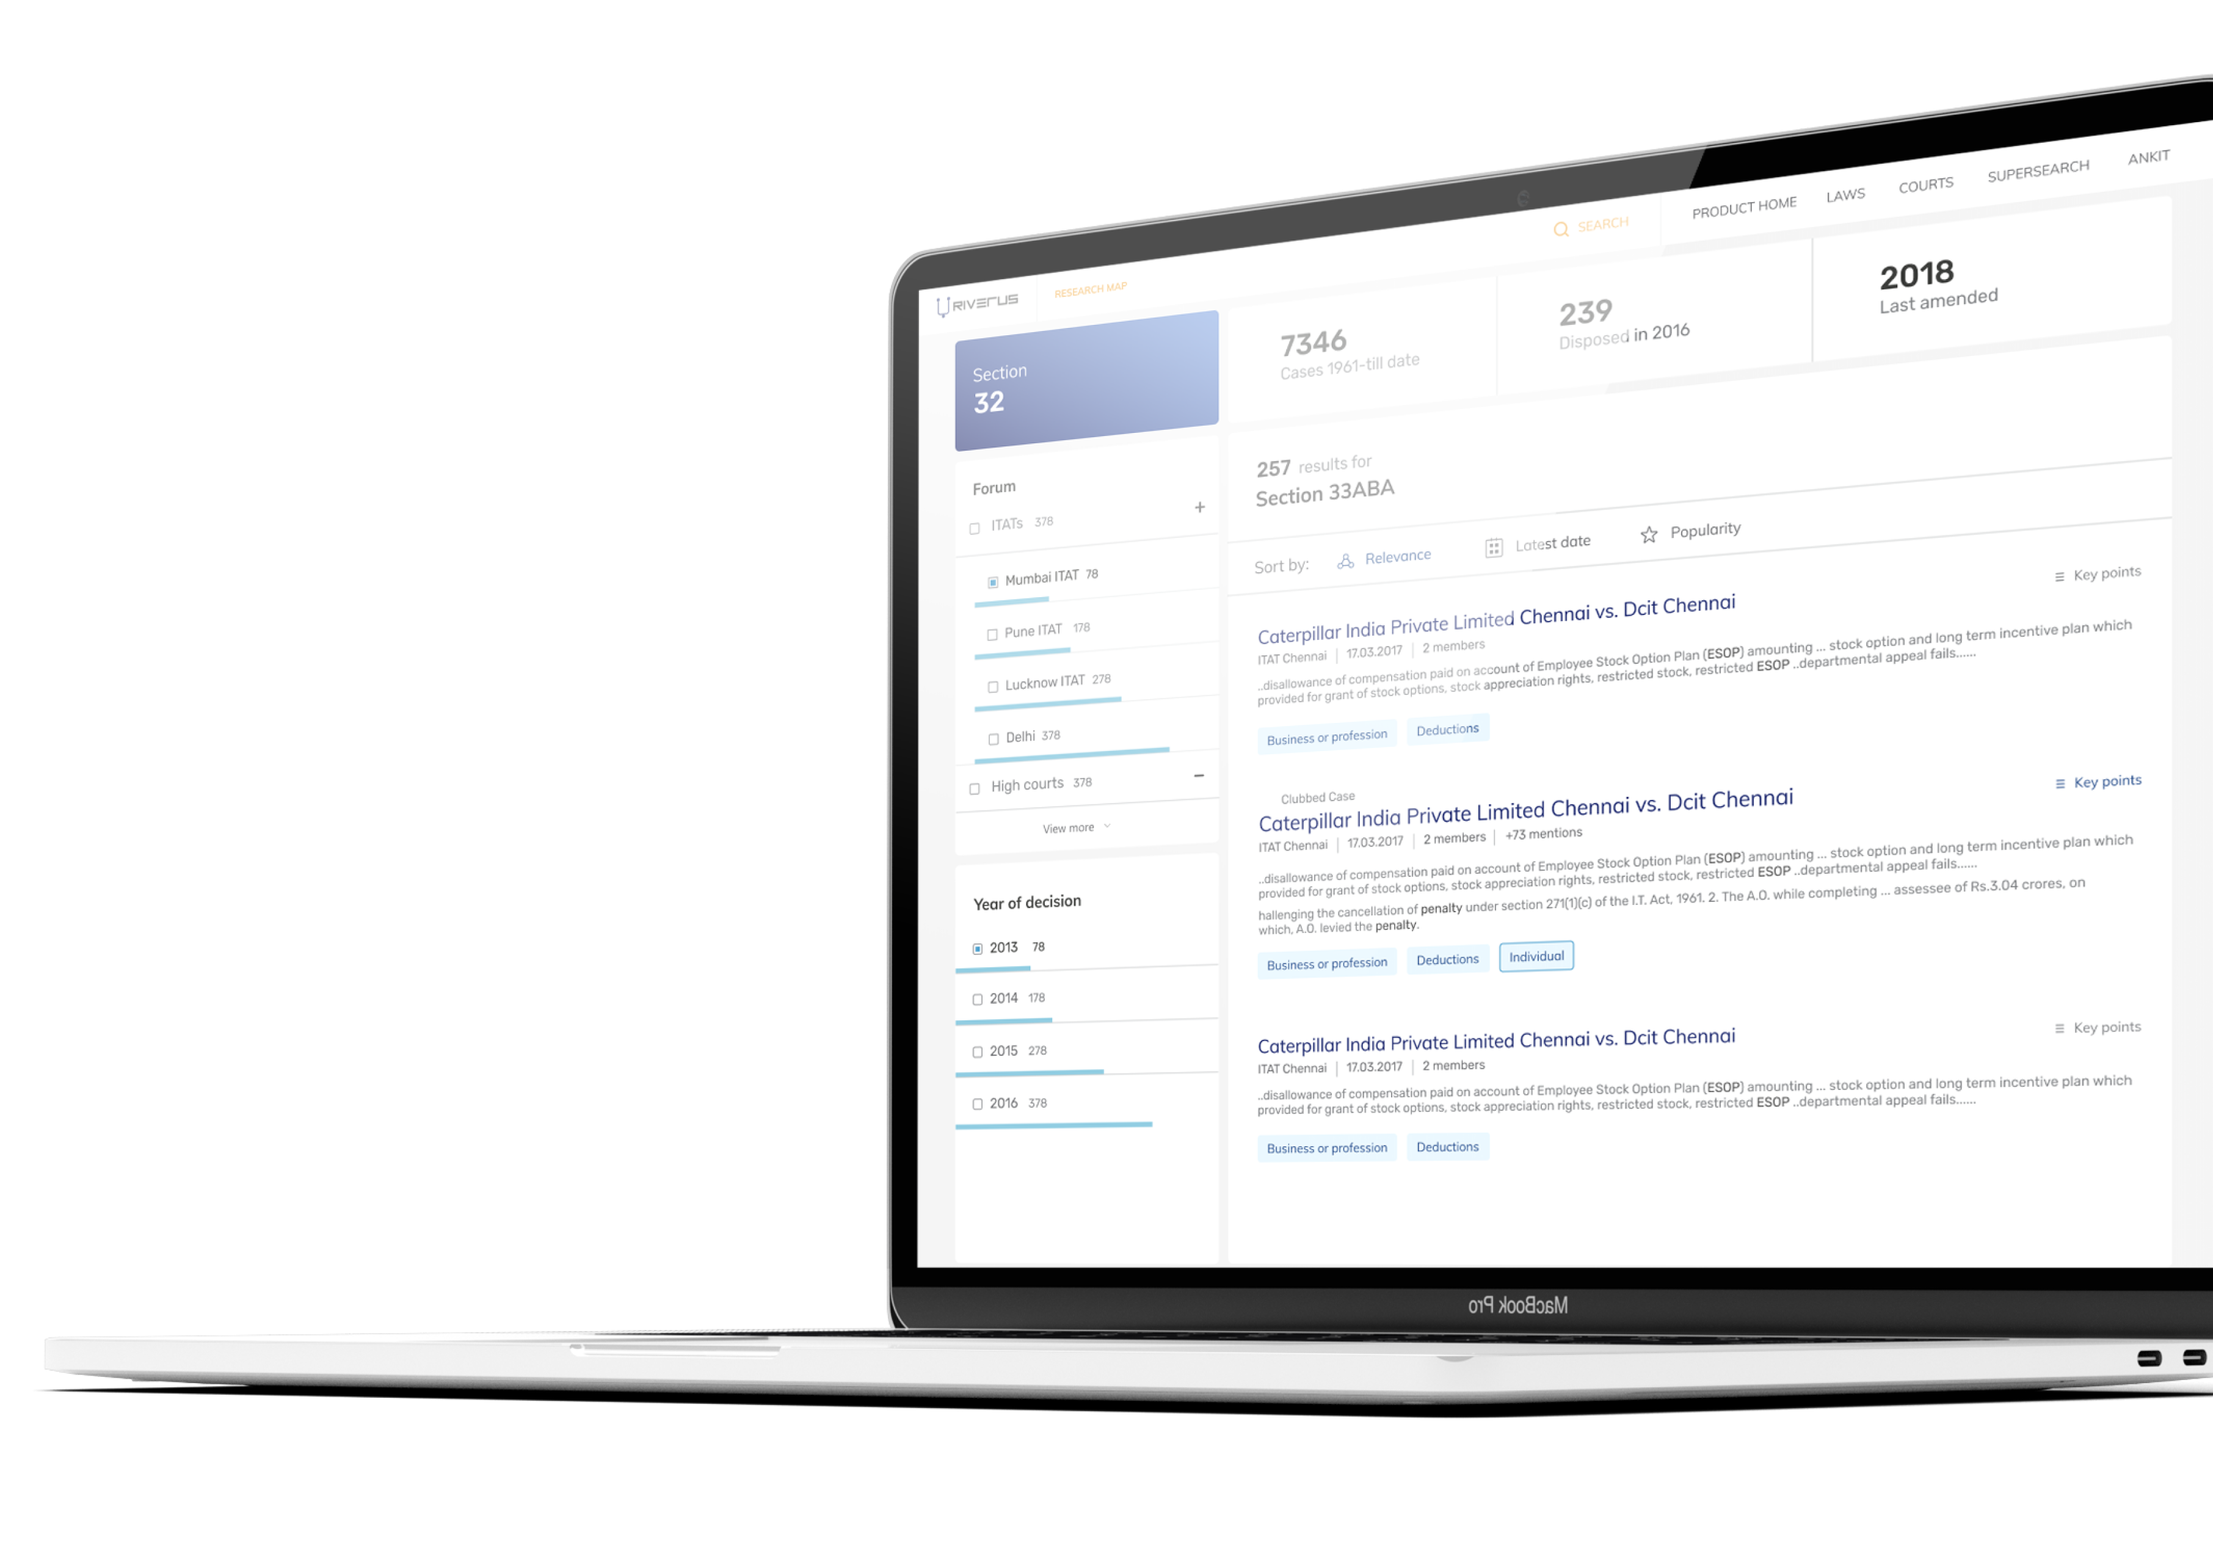
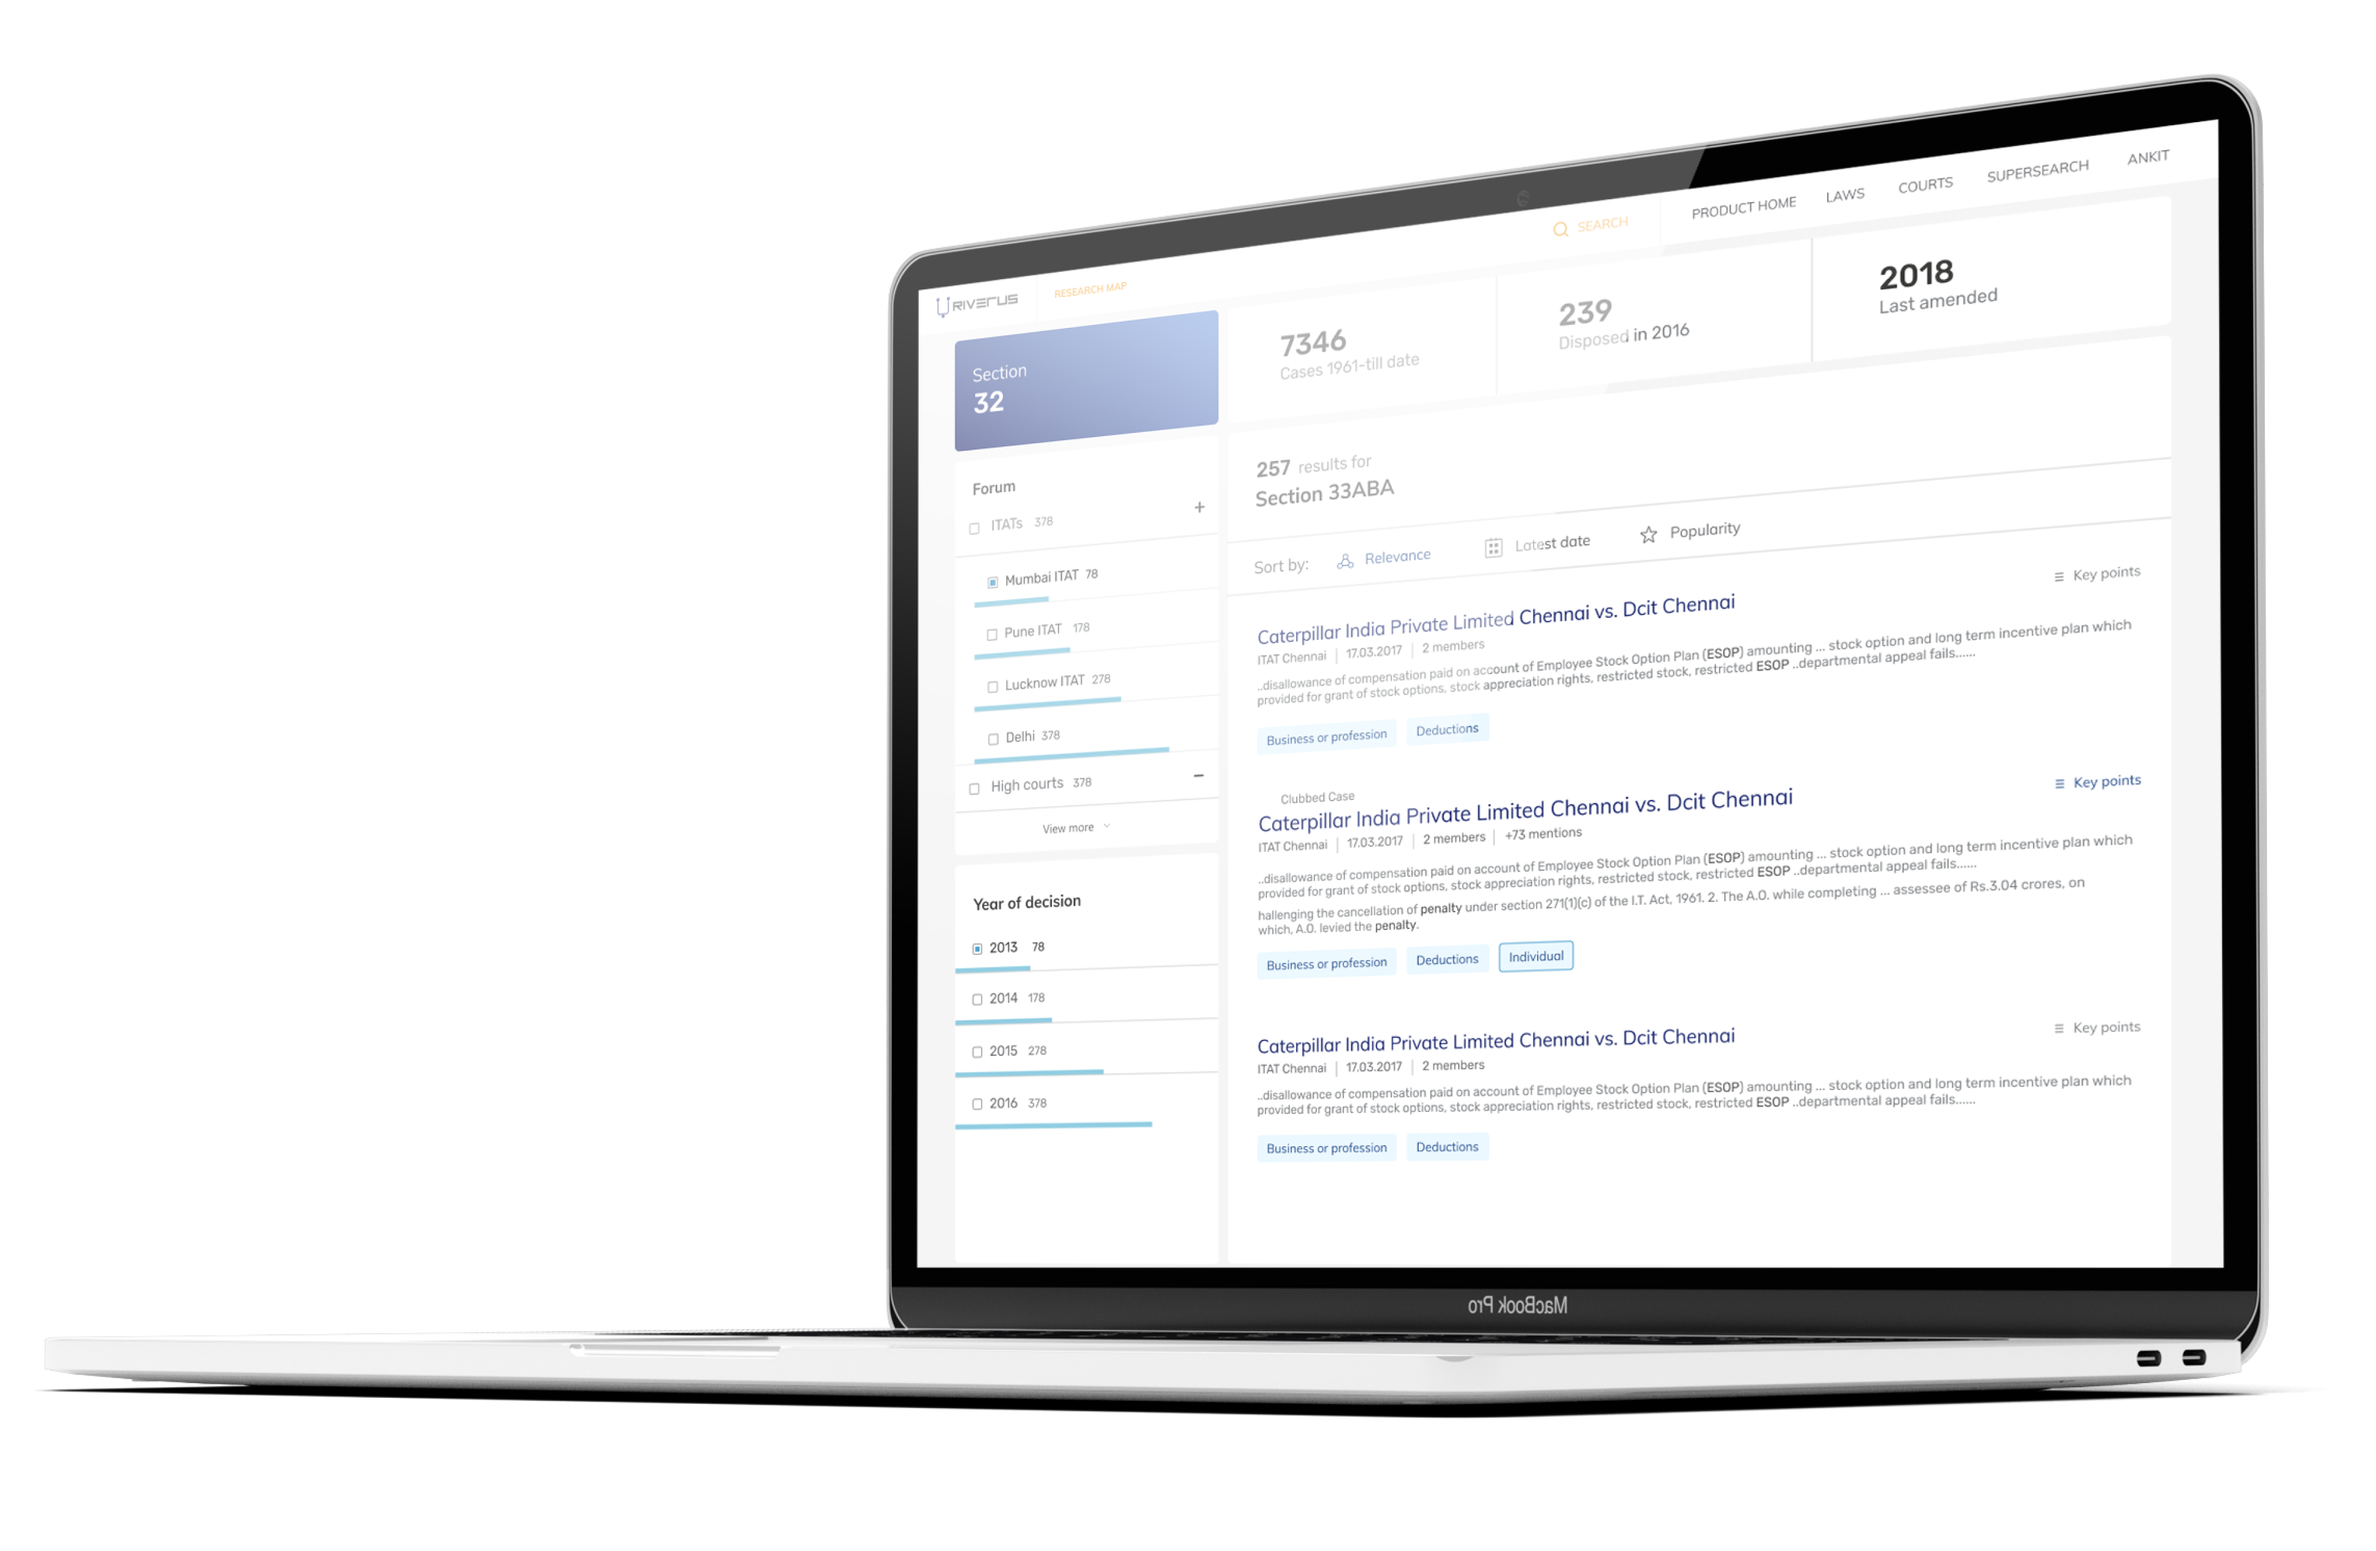
law laptop mockup fixed
with using right: 3% css

diff --git a/css/style.css b/css/style.css
@@ -546,7 +546,7 @@ section {
   height: 60%;
   width: 100%;
   background-size: contain;
-  right: 0%;
+  right: 3%;
   background-position: right;
 }
 /*# sourceMappingURL=style.css.map */

diff --git a/scss/style.scss b/scss/style.scss
@@ -704,6 +704,6 @@ h5 {
     height: 60%;
     width: 100%;
     background-size: contain;
-    right: 0%;
+    right: 3%;
     background-position: right ;
   }
